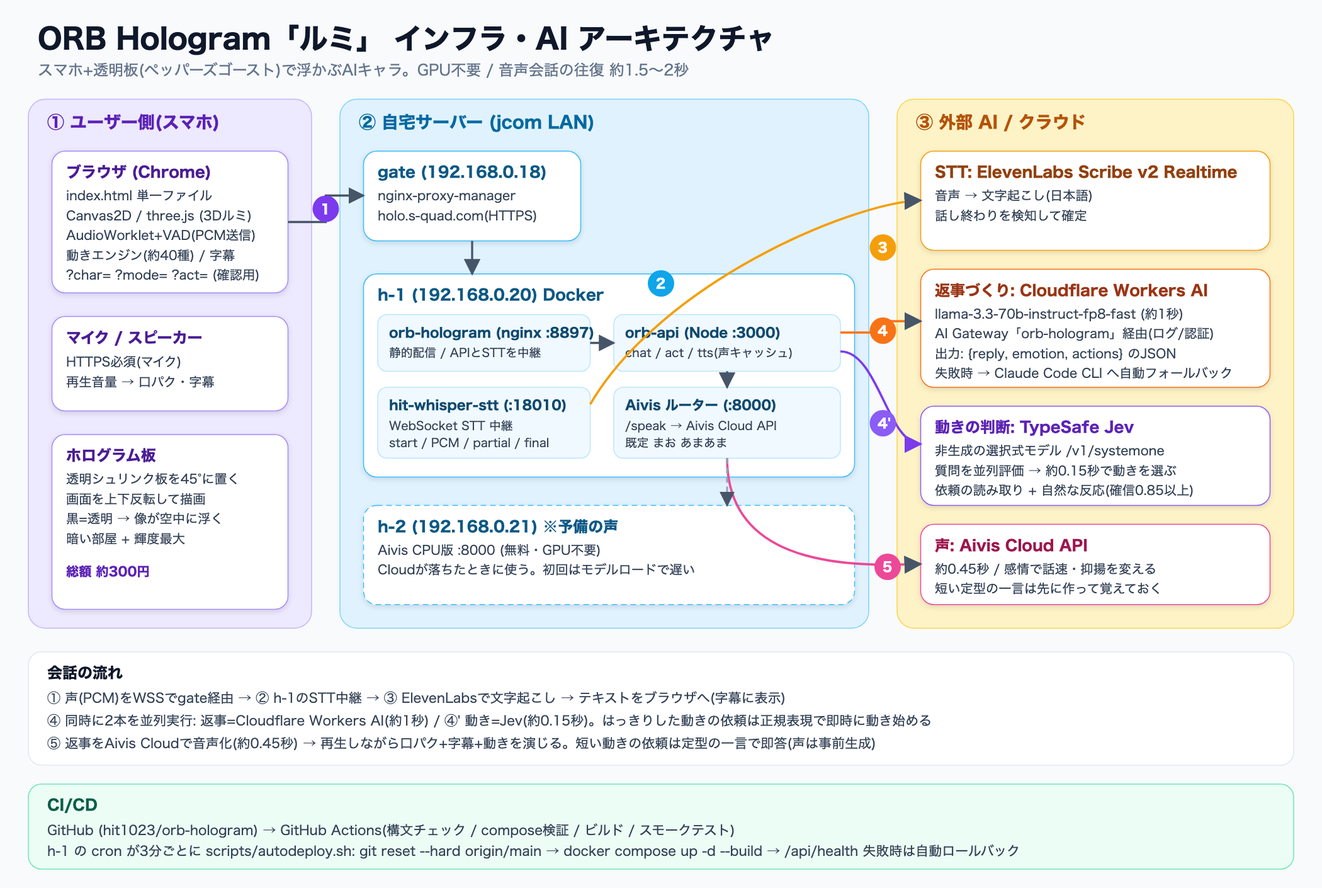
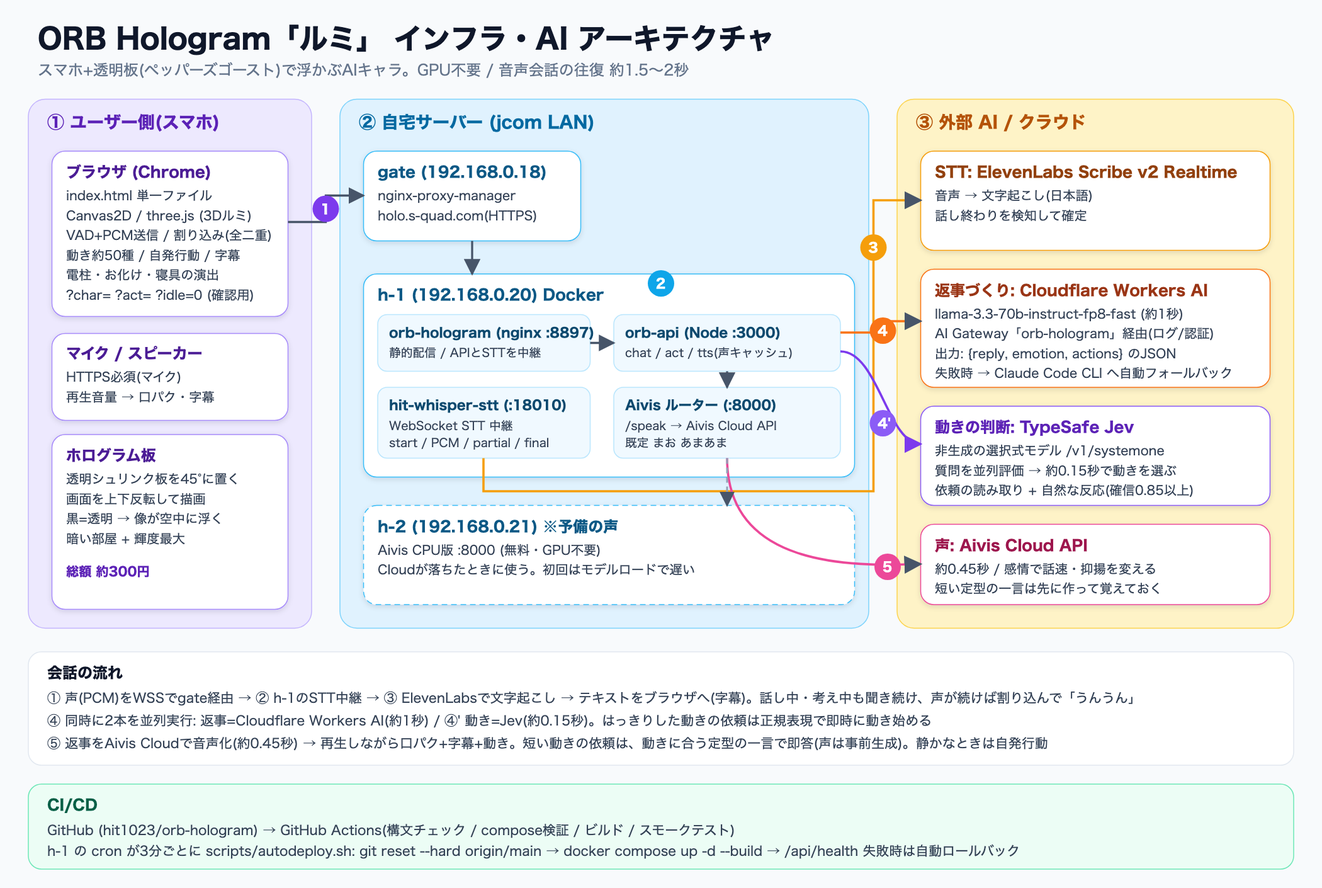
STT correction for action words, longer end-of-speech silence; refresh architecture diagram and README

diff --git a/index.html b/index.html
@@ -858,6 +858,20 @@ function downsample(f32, inRate) {
   return out;
 }
 
+// 音声認識の聞き間違いを、動きの言葉に限って直す(「みぎてをあげて」→「右手をあげて」など)
+const STT_FIX = [
+  [/ミギテ|みぎて|ミギ手|右の手/g, '右手'], [/ヒダリテ|ひだりて|ヒダリ手|左の手/g, '左手'],
+  [/(右|左)て(?=を?(あげ|上げ|挙げ|さげ|下げ|おろ))/g, '$1手'],
+  [/手を?(開け|空け|明け)て/g, '手を上げて'], [/手を?(避け|探し)て/g, '手を下げて'],
+  [/じゃんぷ|ジャンぷ|ちゃんぷ|ジャンプ(?!.*[ぁ-ん]{6})/g, 'ジャンプ'], [/グルグル|ぐるぐる|クルクル/g, 'くるくる'],
+  [/まわって|マワッテ/g, '回って'], [/ブルブル|ぶるぶる|ふるえて/g, 'ぶるぶる'],
+  [/コワイ|こわい/g, '怖い'], [/オバケ|おばけ/g, 'お化け'], [/ゆうれい|ユウレイ/g, '幽霊'],
+  [/(?:^|[、。 ])ねて(?:ください|よ|ね)?[。!]*$/g, '寝て'], [/ウィンク|うぃんく|ウインク/g, 'ウインク'],
+  [/なきたい|ナイテ|ないて(?=[ください。!]*$)/g, '泣いて'], [/わらって|ワラッテ/g, '笑って'],
+  [/しゃがんで|シャガンデ/g, 'しゃがんで'], [/おじぎ|オジギ/g, 'お辞儀'],
+];
+function fixStt(t) { let o = t; for (const [re, to] of STT_FIX) o = o.replace(re, to); return o; }
+const END_SILENCE_MS = (() => { try { return +new URLSearchParams(location.search).get('silence') || 1400; } catch (_) { return 1400; } })();   // 話し終わりと見なす無音の長さ(既定1.4秒)
 function resetStt(next) {
   clearTimeout(finalTimer);
   try { ws && ws.close(); } catch (_) {}
@@ -881,7 +895,7 @@ function beginUtterance() {
     let m; try { m = JSON.parse(ev.data); } catch (_) { return; }
     if (m.type === 'partial' && m.text) { log('あなた: ' + m.text + ' …'); setUserCap(m.text, true); }
     else if (m.type === 'final') {
-      const t = (m.text || '').trim(); resetStt(false);
+      const t = fixStt((m.text || '').trim()); resetStt(false);
       if (t) handleUtterance(t); else setState(micOn ? 'listening' : 'idle');
     } else if (m.type === 'error') { log('音声認識エラー: ' + m.message); resetStt(); }
   };
@@ -916,7 +930,7 @@ function onMicChunk(f32) {
   level = Math.min(1, rms * 6);
   if (vad.waiting) return;
   const pcm = downsample(f32, actx.sampleRate);
-  const on = Math.max(0.02, vad.floor * 3), off = Math.max(0.012, vad.floor * 2);
+  const on = Math.max(0.02, vad.floor * 3), off = Math.max(0.010, vad.floor * 1.7);   // 語尾の小さな声も「まだ話している」と見なす
   if (!vad.active) {
     if (rms < on) vad.floor = vad.floor * 0.98 + rms * 0.02;     // 周囲の雑音の大きさを学習
     vad.pre.push(pcm); if (vad.pre.length > 10) vad.pre.shift(); // 声が出る前の約0.4秒も送る
@@ -924,7 +938,7 @@ function onMicChunk(f32) {
   } else {
     sendPcm(pcm);
     if (rms > off) { vad.lastVoice = now; vad.voiced += 43; }
-    if (now - vad.lastVoice > 1000 || now - vad.t0 > 20000) endUtterance();
+    if (now - vad.lastVoice > END_SILENCE_MS || now - vad.t0 > 20000) endUtterance();
   }
 }
 

diff --git a/README.md b/README.md
@@ -9,21 +9,107 @@
 **ペッパーズゴースト（板の反射を使った簡易ホログラム）で見せることを前提に作った、AI チャットボットです。**
 普通のチャット画面ではなく、「板に映して空中に浮かぶ」ことを最初から設計に入れています。
 
-- **ホログラム向けの表示**: 板で上下が反転して見えるので、あらかじめ反転して描きます。黒背景に明るい色で描き、暗い反射でも見えやすくしています。
-- **AI と声で会話**: 話しかけると、AI（Claude）が返事をして、声で読み上げます。返事の気持ちに合わせて、キャラの表情・色・身ぶりが変わります。
+- **ホログラム向けの表示**: 板で上下が反転して見えるので、あらかじめ反転して描きます。黒背景に明るい色で描きます（黒は板で透明になります）。
+- **AI と声で会話**: 話しかけると AI が返事をして、声で読み上げます。**話している途中でも割り込めます（全二重）。**
+- **体で答える**: 「右手をあげて」「泣いて」「寝て」と頼むと、ルミが体を動かします。頼まなくても、会話に反応したり、ときどき自分から動いたりします。
 - **GPU なし・工作は最小限**: スマホのブラウザと、板・黒プラダンだけで動きます。材料は総額 300 円ほどです。
+
+## アーキテクチャ
+
+![アーキテクチャ図](docs/architecture.png)
+
+| 役割 | 使っている技術 | 備考 |
+|---|---|---|
+| 表示 | Canvas2D / three.js（3D のルミ） / ペッパーズゴースト | 単一ファイル `index.html`、GPU 不要 |
+| 公開 | gate の nginx-proxy-manager（`holo.s-quad.com`、HTTPS） | マイクは HTTPS が必須 |
+| 認識（STT） | ElevenLabs Scribe v2 Realtime（`hit-whisper-stt` 経由） | WebSocket で 16kHz PCM を送信。無料枠で運用 |
+| 返事 | Cloudflare Workers AI `llama-3.3-70b-instruct-fp8-fast`（AI Gateway `orb-hologram` 経由） | 約 1 秒。失敗時は Claude Code CLI（haiku、約 3 秒）に自動で戻る |
+| 動きの判断 | TypeSafe Jev | 非生成の選択式モデル。約 0.15 秒 |
+| 声（TTS） | Aivis Cloud API（主） / h-2 の Aivis CPU 版（予備） | 約 0.45 秒。短い定型の一言は事前に作って覚えておく |
+| CI/CD | GitHub Actions ＋ h-1 の cron（3 分ごとに自動デプロイ） | `/api/health` が通らなければ自動でロールバック |
+
+### 会話の流れ
+
+1. 声（PCM）を WSS で gate 経由 → h-1 の STT 中継 → ElevenLabs で文字起こし → 字幕に表示
+2. 同時に 2 本を並列で実行: **返事**（Cloudflare Workers AI、約 1 秒）と **動き**（Jev、約 0.15 秒）。はっきりした動きの依頼は、正規表現で即座に動き始めます
+3. 返事を Aivis Cloud で音声にして（約 0.45 秒）再生。口パク・字幕・動きを同時に演じます
+4. 話し中・考え中もマイクを聞き続け、声が続けば割り込みます（「うんうん」と相づち）
+
+往復の目安は **約 1.5〜2 秒** です。
 
 ## できること
 
-- キャラクターを 5 種類から選べます: **ルミ3D（立体で回る・既定）** / ルミ（平ら）/ リング / ダンスする女の子 / 球体
-- ルミは AI（Claude）と会話します。返答の気持ちに合わせて表情・色・身ぶりが変わります（うれしい・かなしい・おどろき・おこる・てれる・考え中）
-- どのキャラでも、話す・聞く・考えるに合わせて色と動きが変わり、返事の文章が下の帯に流れます
-- 4 つの状態で色と動きが変わります: 待機（青）・聞いている（緑）・考え中（紫）・話している（橙）
-- キャラの下に、決まった文章が左から右へ流れます
-- マイクでの音声会話（音声認識は hit-whisper-stt）と、文字入力に対応しています
-- 表示モードを切り替えられます: `plain`（画面確認用）/ `board`（斜め板・上下反転）/ `pyramid`（4 方向）
+- **キャラクター 5 種**: ルミ 3D（既定） / ルミ（平ら） / リング / ダンスする女の子 / 球体
+- **表情**: うれしい・かなしい・おどろき・おこる・てれる・考え中。返事の気持ちに合わせて変わります
+- **表示モード**: `plain`（画面確認用）/ `board`（斜め板・上下反転）/ `pyramid`（4 方向）
+- **声で動きを頼む（約 50 種類）**: 下の「声で動きを頼む」を見てください
+- **全二重（割り込み）**: ルミが話している途中や、考えている途中に話しかけると、すぐに止めて聞きます。画面の「割込: ON/OFF」で切り替えられます
+- **自発行動**: 静かなときに、約 45〜135 秒ごとに、きょろきょろ・あくび・ゆらゆら・首かしげ・きらきら、まれにばたっと倒れます（`?idle=0` で止められます）
 
-`index.html` 1 枚（Canvas 2D）で動きます。
+## 声で動きを頼む
+
+話しかけた言葉の意味を AI が読み取って、ルミの体を動かします。決まった合言葉ではなく、自然な言い方で頼めます。
+
+- 例: 「右手をあげて」「くるくる回って、そのあとジャンプして」「手を下げて」「しゃがんで」「寝て」「泣いて」「怖い話するね」
+- **右手・左手は、ルミ自身の右手・左手**です（向かい合っているので、画面では左右が逆に見えます）。「手をあげて」だけなら右手です
+- 手をあげたあとは、4 秒ほどで自動で下がります。「手を下げて」ですぐに下げることもできます
+- 2 つ以上頼むと、言った順に演じます
+
+### 動き一覧
+
+| 種類 | 動き |
+|---|---|
+| 手・腕 | 右手 / 左手 / 両手をあげる、手を下げる、手をふる、拍手、ピース、指さす、ガッツポーズ、応援 |
+| 全身 | くるくる回る、ジャンプ、ぴょんぴょん、しゃがむ、のび、おじぎ、おどる、万歳、足ぶみ、ゆらゆら |
+| 表情・感情 | 泣く（涙）、笑う、怒る、照れる、驚く、考える、すねる、あくび、ウインク（左右）、投げキス、ハート |
+| 大きな演出 | **寝る**（横になり、まくら・敷きぶとん・かけぶとんが湧く）、**怖がる**（電柱が出てきて陰に隠れ、ブルブル震え、冷や汗、お化けがふよふよ浮かぶ）、気絶（ばたっと倒れる）、ぶるぶる震える |
+| 首・目 | うなずく、首をふる、首をかしげる、きょろきょろ、目を閉じる・開ける、ぱたぱた、きらきら |
+
+### 速さの工夫
+
+- **正規表現の即時反応**: はっきりした依頼（「右手をあげて」「ジャンプして」など）は、AI を待たずに動き始めます（`fastActions`）。否定形（「泣かないで」）やあいまいな言い方は、AI に任せます
+- **Jev**: 動きの判断だけを TypeSafe の選択式モデル「Jev」に任せます（`/api/act`）。返事の生成と並べて呼ぶので、動きが早く始まります。`.env` に `TYPESAFE_API_KEY` を入れると有効になります。ないとき・失敗したときは、返事 AI の判断に戻ります
+- **定型の一言**: 短い動きの依頼には、動きに合った一言（寝る→「ふぁ…おやすみなさい」、怖がる→「きゃー！こわいよー！」など）で即答します。声は起動時に作って覚えてあるので、待たされません
+- **音声認識の聞き間違いの補正**: 動きの言葉に限って、聞き間違い（「みぎて」→「右手」、「ぐるぐる」→「くるくる」など）を直します。話し終わりの判定は、無音 1.4 秒（`?silence=ミリ秒` で変えられます）です
+
+### 仕組み
+
+`/api/chat` が `{reply, emotion, actions}` を返し、`index.html` の動きエンジン（`actPose`）が 3D のルミ（`lumi3d.js`）に演じさせます。動きを増やすには、`orb-api/server.js` の `ACTIONS` と説明、`index.html` の `ACT_DUR`・`actPose`（必要なら `FAST_ACTIONS`）に足します。
+
+確認用の URL: `?char=mascot3d&mode=plain&hideui=1&act=scared` のように付けると、文字を打たなくても動きを確認できます。ほかに `idlefast=1`（自発行動を速く）、`idle=0`（自発行動を止める）、`duplex=0`（割り込みを切る）があります。
+
+## AI 会話（返答・声・認識）
+
+```
+ブラウザ ── /api/chat ──▶ orb-api ──▶ Cloudflare Workers AI（失敗時 Claude Code CLI） → {reply, emotion, actions}
+        ── /api/act  ──▶ orb-api ──▶ TypeSafe Jev                                     → {actions}
+        ── /api/tts  ──▶ orb-api ──▶ Aivis ルーター(:8000) → Aivis Cloud(主) / h-2 CPU 版(予備) → mp3
+        ── /ws/stt   ──▶ hit-whisper-stt(:18010, ElevenLabs Scribe)
+```
+
+- `orb-api/`（Node、依存なし）が、返答・動きの判断・読み上げを担当します。
+- 返答は、Cloudflare Workers AI（AI Gateway `orb-hologram` 経由）が主です。Cloudflare の応答が空・失敗のときは、Claude Code CLI（haiku）に自動で戻ります。
+- 声は、Aivis Cloud が主、h-2 の CPU 版が予備です（`TTS_PRIMARY=cpu` で逆にできます）。短い定型の一言は、起動時に作ってメモリに覚えます。
+- 音声認識は、既存の `hit-whisper-stt` の WebSocket（16kHz PCM）へ nginx 経由でつなぎます。
+- マイクは HTTPS が必要なので、`https://holo.s-quad.com/` で開きます。
+
+### 設定（`.env`）
+
+`.env` は git に入れません。h-1 にだけ置きます。
+
+| 変数 | 内容 |
+|---|---|
+| `CLOUDFLARE_ACCOUNT_ID` / `CLOUDFLARE_API_TOKEN` | Cloudflare Workers AI（返事） |
+| `CF_AI_GATEWAY_ID` | AI Gateway の名前（`orb-hologram`） |
+| `CF_CHAT_MODEL` | 返事のモデル（既定 `@cf/meta/llama-3.3-70b-instruct-fp8-fast`） |
+| `CLAUDE_CODE_OAUTH_TOKEN` | 予備の返事（`claude setup-token` で発行） |
+| `TYPESAFE_API_KEY` | Jev（動きの判断、任意） |
+| `TTS_PRIMARY` | `cloud`（既定）または `cpu` |
+| `TTS_SPEAKER_ID` / `TTS_FALLBACK_SPEAKER_ID` | 声（CPU 版 / クラウド版） |
+
+### 返答 API の仕様
+
+`POST /api/chat` に `{ "text": "...", "history": [...] }` を送ると、`{ "reply": "...", "emotion": "happy", "actions": [] }` が返ります。`CONFIG.chatEndpoint` を空にするとデモ返答になります。TTS が使えないときは、ブラウザの `speechSynthesis` で代用します。
 
 ## 動かし方
 
@@ -41,19 +127,11 @@ python3 -m http.server 8000
 docker compose up -d
 ```
 
-`http://<ホスト>:8897/` で開けます。
-
-`index.html` など個別のファイルを bind mount しているので、ファイルを差し替えたあとは再起動が必要です。
-
-```bash
-docker compose restart
-```
-
-マウントするファイルを増やしたときは `docker compose up -d --force-recreate` にします。
+`http://<ホスト>:8897/` で開けます。`orb-api` のソースはイメージに入るので、変更したら `docker compose up -d --build` にします。`index.html` などは bind mount なので、差し替えたあとは `--force-recreate` が確実です。
 
 ### マイクを使うとき
 
-マイクの利用には HTTPS が必要です。HTTP の LAN アドレスでは使えません。音声認識は Chrome（Android）を推奨します。Brave は非対応です。
+マイクの利用には HTTPS が必要です。HTTP の LAN アドレスでは使えません。音声認識は Chrome（Android / iOS Safari）で確認しています。Brave は非対応です。スマホのスピーカーとマイクが近いと、ルミ自身の声を拾って割り込むことがあります。そのときは音量を下げるか、「割込: OFF」にしてください。
 
 ## 工作
 
@@ -76,86 +154,43 @@ docker compose restart
 板で反射すると、画面の**上下が反転**して見えます（左右は反転しません）。
 そのため `board` モードでは `ctx.scale(1, -1)` した座標空間で描きます。この空間で普通に文字やキャラを描けば、板に映ったときに正しい向きになります。この空間では y+ が空中の「下」にあたり、頭は y < 0 に描きます。
 
+黒は板で透明になるので、頭や髪の後ろに隠れる動き（敬礼など）は見えません。腕が頭の横や上に出る動きなら見えます。
+
 画面の操作 UI も反射して浮いて見えます。実演のときは「UI を隠す」を押してください（画面をタップすると戻ります）。
-
-## AI会話（返答・声・認識）
-
-```
-ブラウザ ── /api/chat ──▶ orb-api ──▶ Claude Code CLI (haiku)  → {reply, emotion}
-        ── /api/tts  ──▶ orb-api ──▶ Aivis ルーター(:8000)   → mp3
-        ── /ws/stt   ──▶ hit-whisper-stt(:18010, ElevenLabs Scribe)
-```
-
-- `orb-api/` が返答（Claude Code CLI を headless で実行）と読み上げ（既存の Aivis ルーターへ中継）を担当します。読み上げは、GPU なしで動く CPU 版 Aivis を主に使い、遅いときだけ Aivis Cloud 版に切り替えます。
-- 音声認識は、既存の `hit-whisper-stt` の WebSocket（16kHz PCM）へ nginx 経由でつなぎます。
-- 認証は `.env` の `CLAUDE_CODE_OAUTH_TOKEN`（`claude setup-token` で発行）。`.env` は git に入れません。声は `TTS_SPEAKER_ID`（CPU版）と `TTS_FALLBACK_SPEAKER_ID`（クラウド版）で変えられます。
-- マイクは HTTPS が必要なので、`https://holo.s-quad.com/` で開きます。
-
-### 返答 API の仕様
-
-`POST /api/chat` に `{ "text": "...", "history": [...] }` を送ると、`{ "reply": "...", "emotion": "happy" }` が返ります。`CONFIG.chatEndpoint` を空にするとデモ返答になります。TTS が使えないときは、ブラウザの `speechSynthesis` で代用します。
-
-## 声で動きを頼む
-
-話しかけた言葉の意味を AI（Claude）が読み取って、ルミの体を動かします。決まった合言葉ではなく、自然な言い方で頼めます。
-
-- 例: 「右手をあげて」「くるくる回って、そのあとジャンプして」「目を瞑って」「泣いて」「ウインクして」「ハートを出して」「あくびして」
-- 動き（約40種類）: 右手・左手・両手をあげる／手をふる／拍手／くるくる回る／ジャンプ／目を閉じる・開ける／泣く／笑う／怒る／照れる／おじぎ／うなずく／首をふる／おどる／ねむる／ウインク／ピース／投げキス／ハートを出す／ぶるぶる震える／しゃがむ／のび／あくび／指さす／肩をすくめる／すねる／驚く／考える／ゆらゆら／足ぶみ／万歳／気絶／首をかしげる／きょろきょろ／ぱたぱた／きらきら
-- 頼まなくても、会話の流れで自然に動きます（「ありがとう」でおじぎ、「寒い」でぶるぶる、「おやすみ」でねむる、など）。毎回ではなく、3回に1回くらいです。
-- 「右手」「左手」は、**画面の右側・左側の手**です。2つ以上頼むと、言った順に演じます。
-- **動きの判断をJevで速くする（任意）**: `.env` に `TYPESAFE_API_KEY`（TypeSafe の APIキー）を入れると、動きの判断だけを、TypeSafe の選択式モデル「Jev」に任せます（`/api/act`）。返事の文章は、これまでどおり Claude です。Jev は、動きの判断を、返事の生成と並べて呼ぶので、動きが早く始まります。キーがない・失敗したときは、Claude の判断にもどります。
-- 速さ: AIの判断は約3秒かかります。はっきりした依頼（「右手をあげて」「ジャンプして」など）は、AIの返事を待たず、すぐ動き始めます（`fastActions`）。否定形（「泣かないで」）や、あいまいな言い方は、AIに任せます。
-- 仕組み: `/api/chat` が `{reply, emotion, actions}` を返し、`index.html` の動きエンジン（`actPose`）が、3Dのルミ（`lumi3d.js`）に演じさせます。動きを増やすには、`orb-api/server.js` の `ACTIONS` と `index.html` の `ACT_DUR`・`actPose` に足します。
-- 確認用: URL に `?char=mascot3d&mode=plain&spin=0&act=raise_both` のように付けると、文字を打たなくても、動きを確認できます。
 
 ## CI/CD
 
 `main` に push すると、自動でテストとデプロイが走ります。
 
-- **CI（GitHub Actions）**: `.github/workflows/ci.yml`。`index.html` と `orb-api` の構文チェック、compose の検証、イメージのビルド、起動して `/api/health` などを確認するスモークテストを行います。
-- **CD（h-1 の cron）**: `scripts/autodeploy.sh` を3分ごとに実行します。`origin/main` に新しいコミットがあれば、取り込んでコンテナを作り直します。ヘルスチェックが通らなければ、直前のコミットに戻します。ログは h-1 の `~/docker/hit-orb-hologram/autodeploy.log` です。
-- `.env`（Claude のトークン）は git に入れず、h-1 にだけ置きます。KOTOCO や motion-scope と同じ方式です。
+- **CI（GitHub Actions）**: `.github/workflows/ci.yml`。`index.html`・`lumi3d.js`・`orb-api` の構文チェック、compose の検証、イメージのビルド、起動して `/api/health` などを確認するスモークテストを行います。
+- **CD（h-1 の cron）**: `scripts/autodeploy.sh` を 3 分ごとに実行します。`origin/main` に新しいコミットがあれば、取り込んでコンテナを作り直します。ヘルスチェックが通らなければ、直前のコミットに戻します。ログは h-1 の `~/docker/hit-orb-hologram/autodeploy.log` です。
+- KOTOCO や motion-scope と同じ pull 型の方式です。
 
 ## ファイル
 
 | ファイル | 内容 |
 |---|---|
-| `index.html` | 本体（描画・入力・状態管理・動きエンジン） |
-| `lumi3d.js` | 3D のルミ（three.js、球や円すいで組み立てたオリジナル） |
-| `dancer-concept.png` | ダンスキャラの透過画像（現在の表示に使用） |
-| `orb-api/` | 返答（Claude）と読み上げ（Aivis中継）の小さな API サーバー |
-| `scripts/autodeploy.sh` / `.github/workflows/ci.yml` | 自動デプロイ(h-1 の cron)と CI |
+| `index.html` | 本体（描画・入力・状態管理・動きエンジン・全二重・音声認識の補正） |
+| `lumi3d.js` | 3D のルミ（three.js、球や円すいで組み立てたオリジナル。電柱・お化け・寝具もここ） |
+| `orb-api/` | 返答・動きの判断（Jev）・読み上げの小さな API サーバー |
+| `scripts/autodeploy.sh` / `.github/workflows/ci.yml` | 自動デプロイ（h-1 の cron）と CI |
 | `nginx.conf` / `docker-compose.yml` | 配信と `/api` `/ws/stt` の中継設定 |
-| `docs/lumi.png` | READMEの画像（ルミ） |
+| `docs/architecture.svg` / `.png` | アーキテクチャ図 |
+| `docs/lumi.png` | README の画像（ルミ） |
 | `HANDOFF.md` | 開発の引き継ぎメモ（設計・TODO・ハマりどころ） |
 | `hologram-deck.pptx` | 製作の紹介スライド |
 | `ASSET-LICENSE.txt` | 素材の出典とライセンス |
-| `avatar3d.js` / `avatar3d.bundle.js` / `dancer-avatar.glb` / `dancer-motion.glb` / `dancer.mp4` / `dancer-sprite.png` | 旧 3D・動画・スプライト素材（現在は読み込んでいません） |
+| `dancer-concept.png` ほか | ダンスキャラ・旧 3D・動画・スプライト素材 |
 
 ## 今後
 
-- 基準デザインを保ったまま、ダンスをより本格的にする
-- ルミの独り言（話しかけられていないときの一言）や、会話の記憶
-- 板に映した実機で、文字の濃さ・リングの太さ・キャラの大きさを調整する
+- 3D のルミを使った、4 方向（ピラミッド）の表示
+- 会話の記憶、ルミの独り言
+- 音声認識の精度向上（補正の追加、別の STT との比較）
+- 板に映した実機で、文字の濃さ・キャラの大きさを調整する
 
 詳しくは [HANDOFF.md](HANDOFF.md) を見てください。
 
 ## ライセンスと素材
 
 素材の出典は [ASSET-LICENSE.txt](ASSET-LICENSE.txt) にまとめています。旧 3D モデルは CC-BY（Blender Foundation）、動画は Pexels ライセンス、Three.js は MIT です。
-
-## 返事の速さ(Cloudflare Workers AI)
-返事づくりは Cloudflare Workers AI(AI Gateway `orb-hologram` 経由、既定 llama-3.3-70b-fast、約1秒)が主で、失敗時は Claude CLI(約3秒)に自動で戻ります。声は Aivis Cloud が主、h-2 の CPU 版が予備(`TTS_PRIMARY=cpu` で逆転)。`.env` に `CLOUDFLARE_ACCOUNT_ID` / `CLOUDFLARE_API_TOKEN` / `CF_AI_GATEWAY_ID` を設定します。
-
-## アーキテクチャ
-![アーキテクチャ図](docs/architecture.png)
-
-| 役割 | 使っている技術 | 備考 |
-|---|---|---|
-| 表示 | Canvas2D / three.js(3Dルミ) / ペッパーズゴースト | 単一ファイル index.html、GPU不要 |
-| 公開 | gate の nginx-proxy-manager (holo.s-quad.com, HTTPS) | マイクはHTTPS必須 |
-| 認識(STT) | ElevenLabs Scribe v2 Realtime (hit-whisper-stt 経由) | WebSocketで16kHz PCMを送信 |
-| 返事 | Cloudflare Workers AI llama-3.3-70b-fast (AI Gateway経由) | 約1秒、失敗時は Claude Code CLI(haiku) |
-| 動きの判断 | TypeSafe Jev | 非生成の選択式モデル、約0.15秒 |
-| 声(TTS) | Aivis Cloud API(主) / h-2 の Aivis CPU版(予備) | 約0.45秒、短い定型は事前生成 |
-| CI/CD | GitHub Actions + h-1 cron(3分毎 autodeploy) | /api/health 失敗で自動ロールバック |
